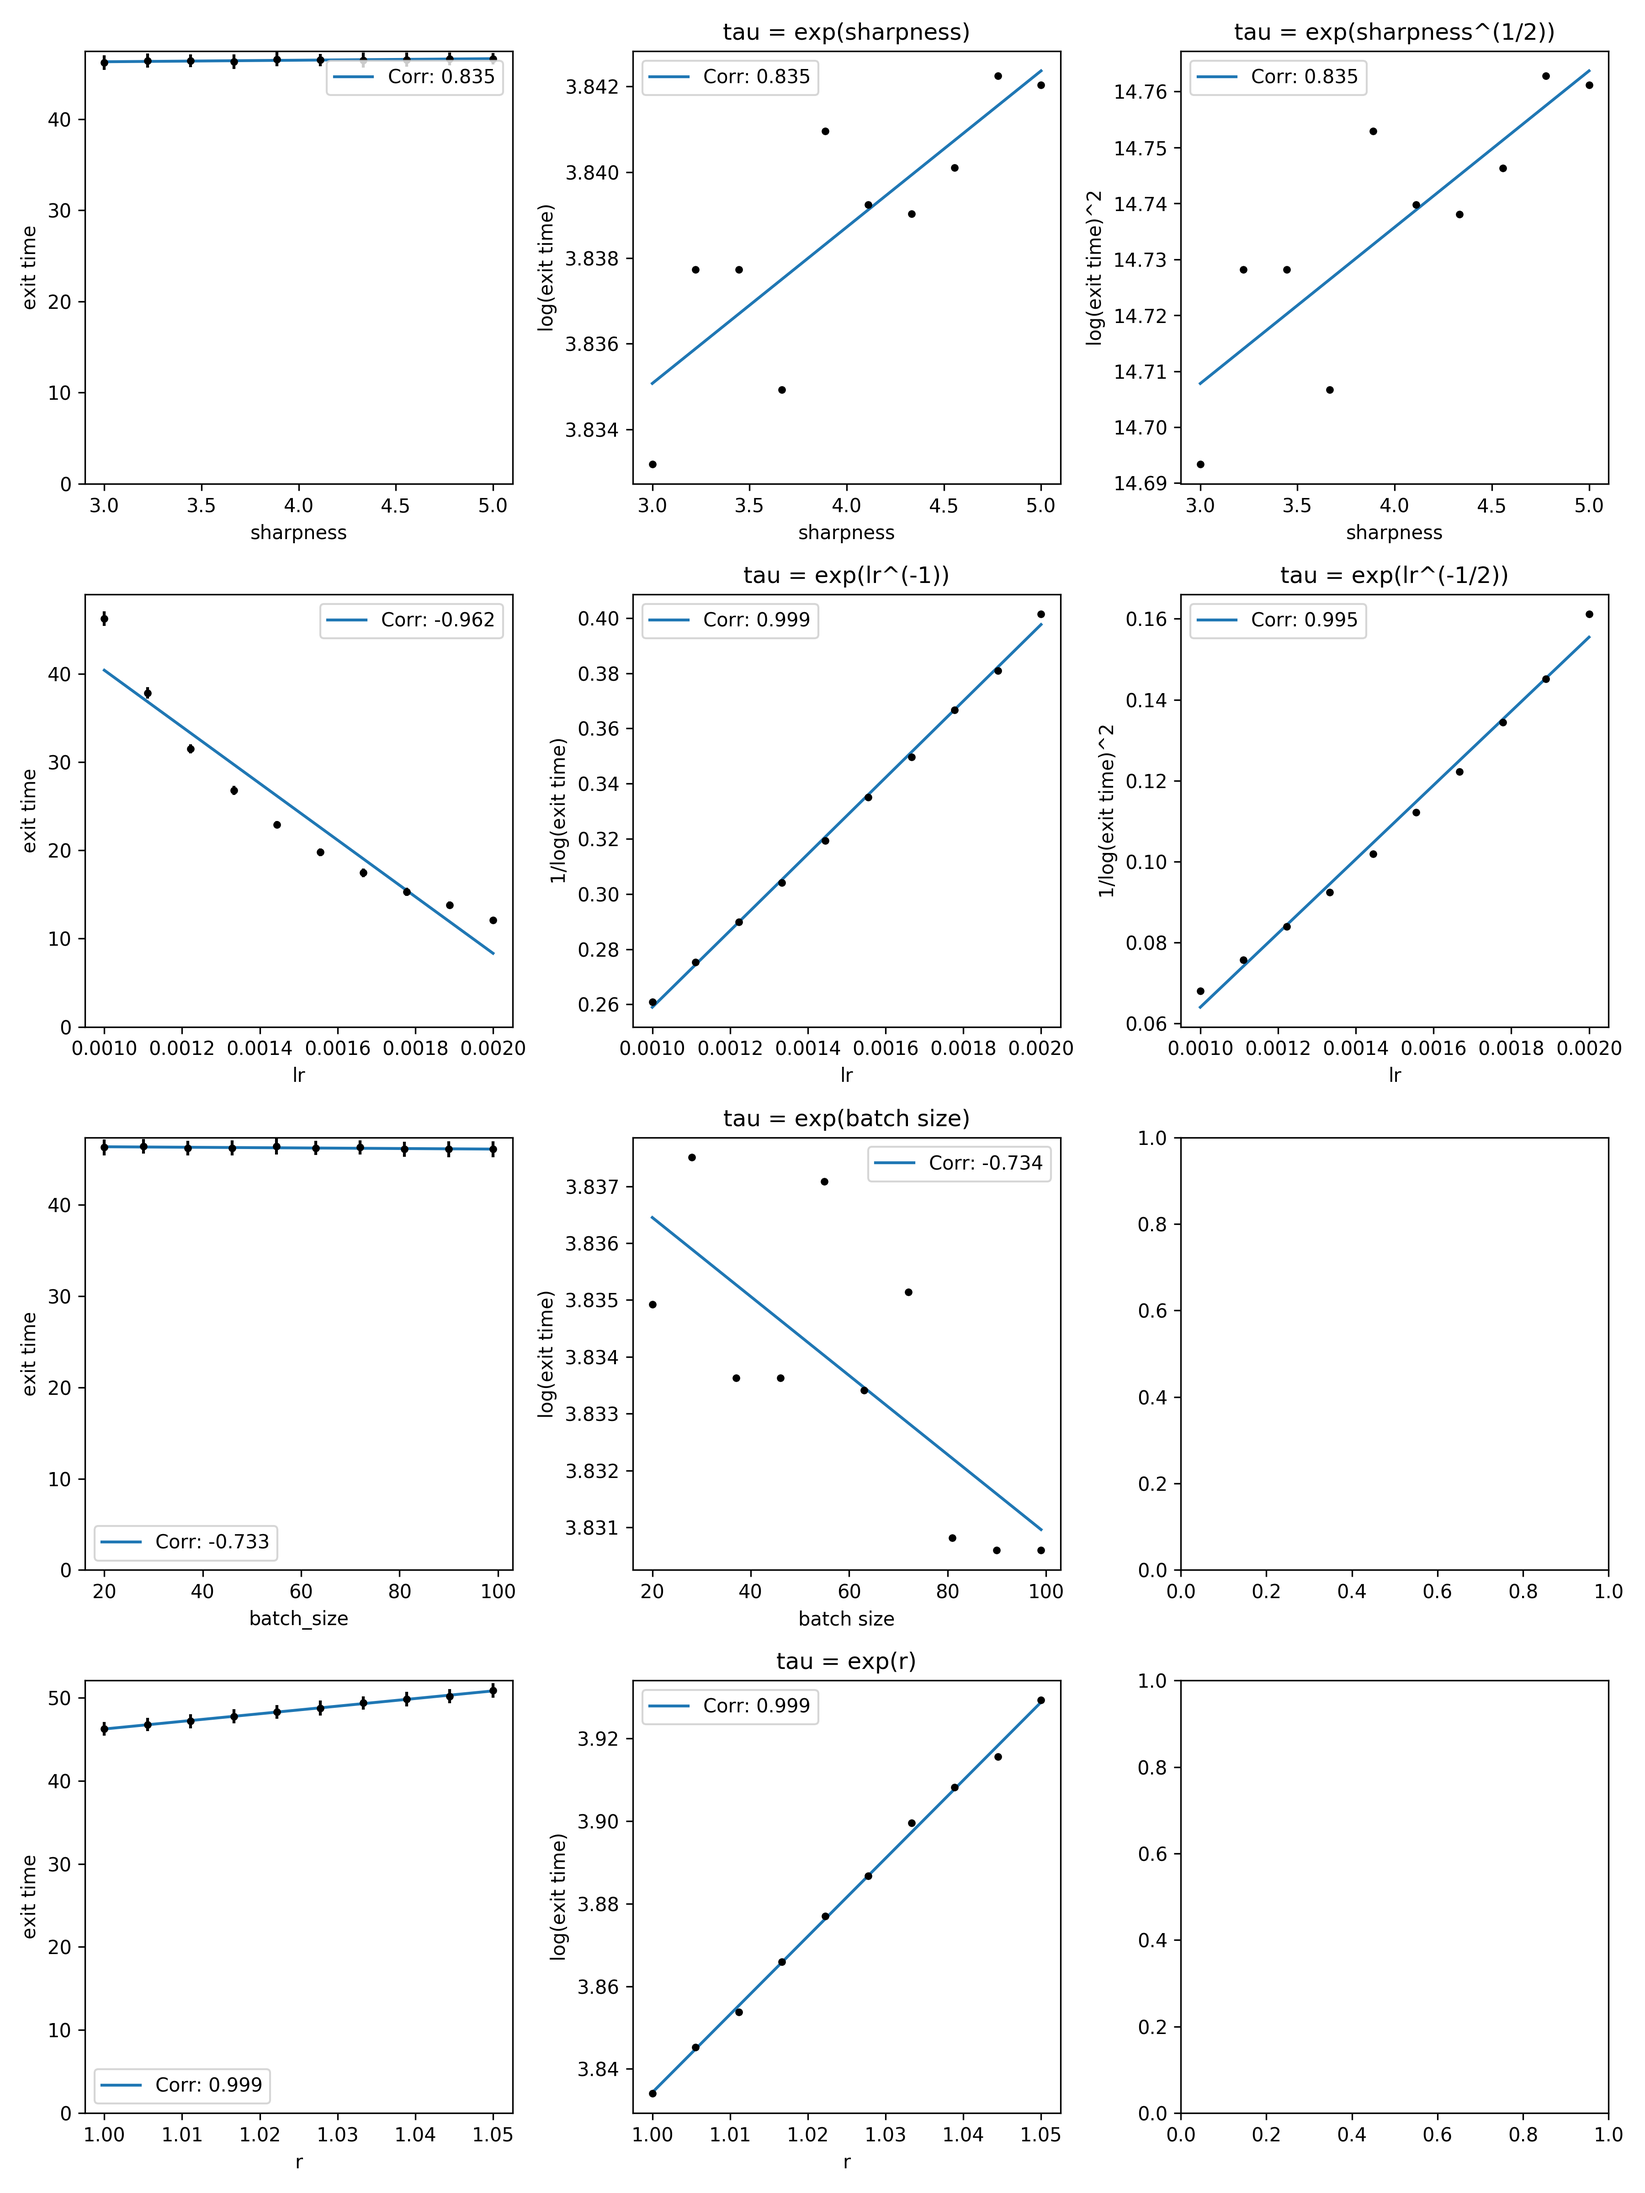
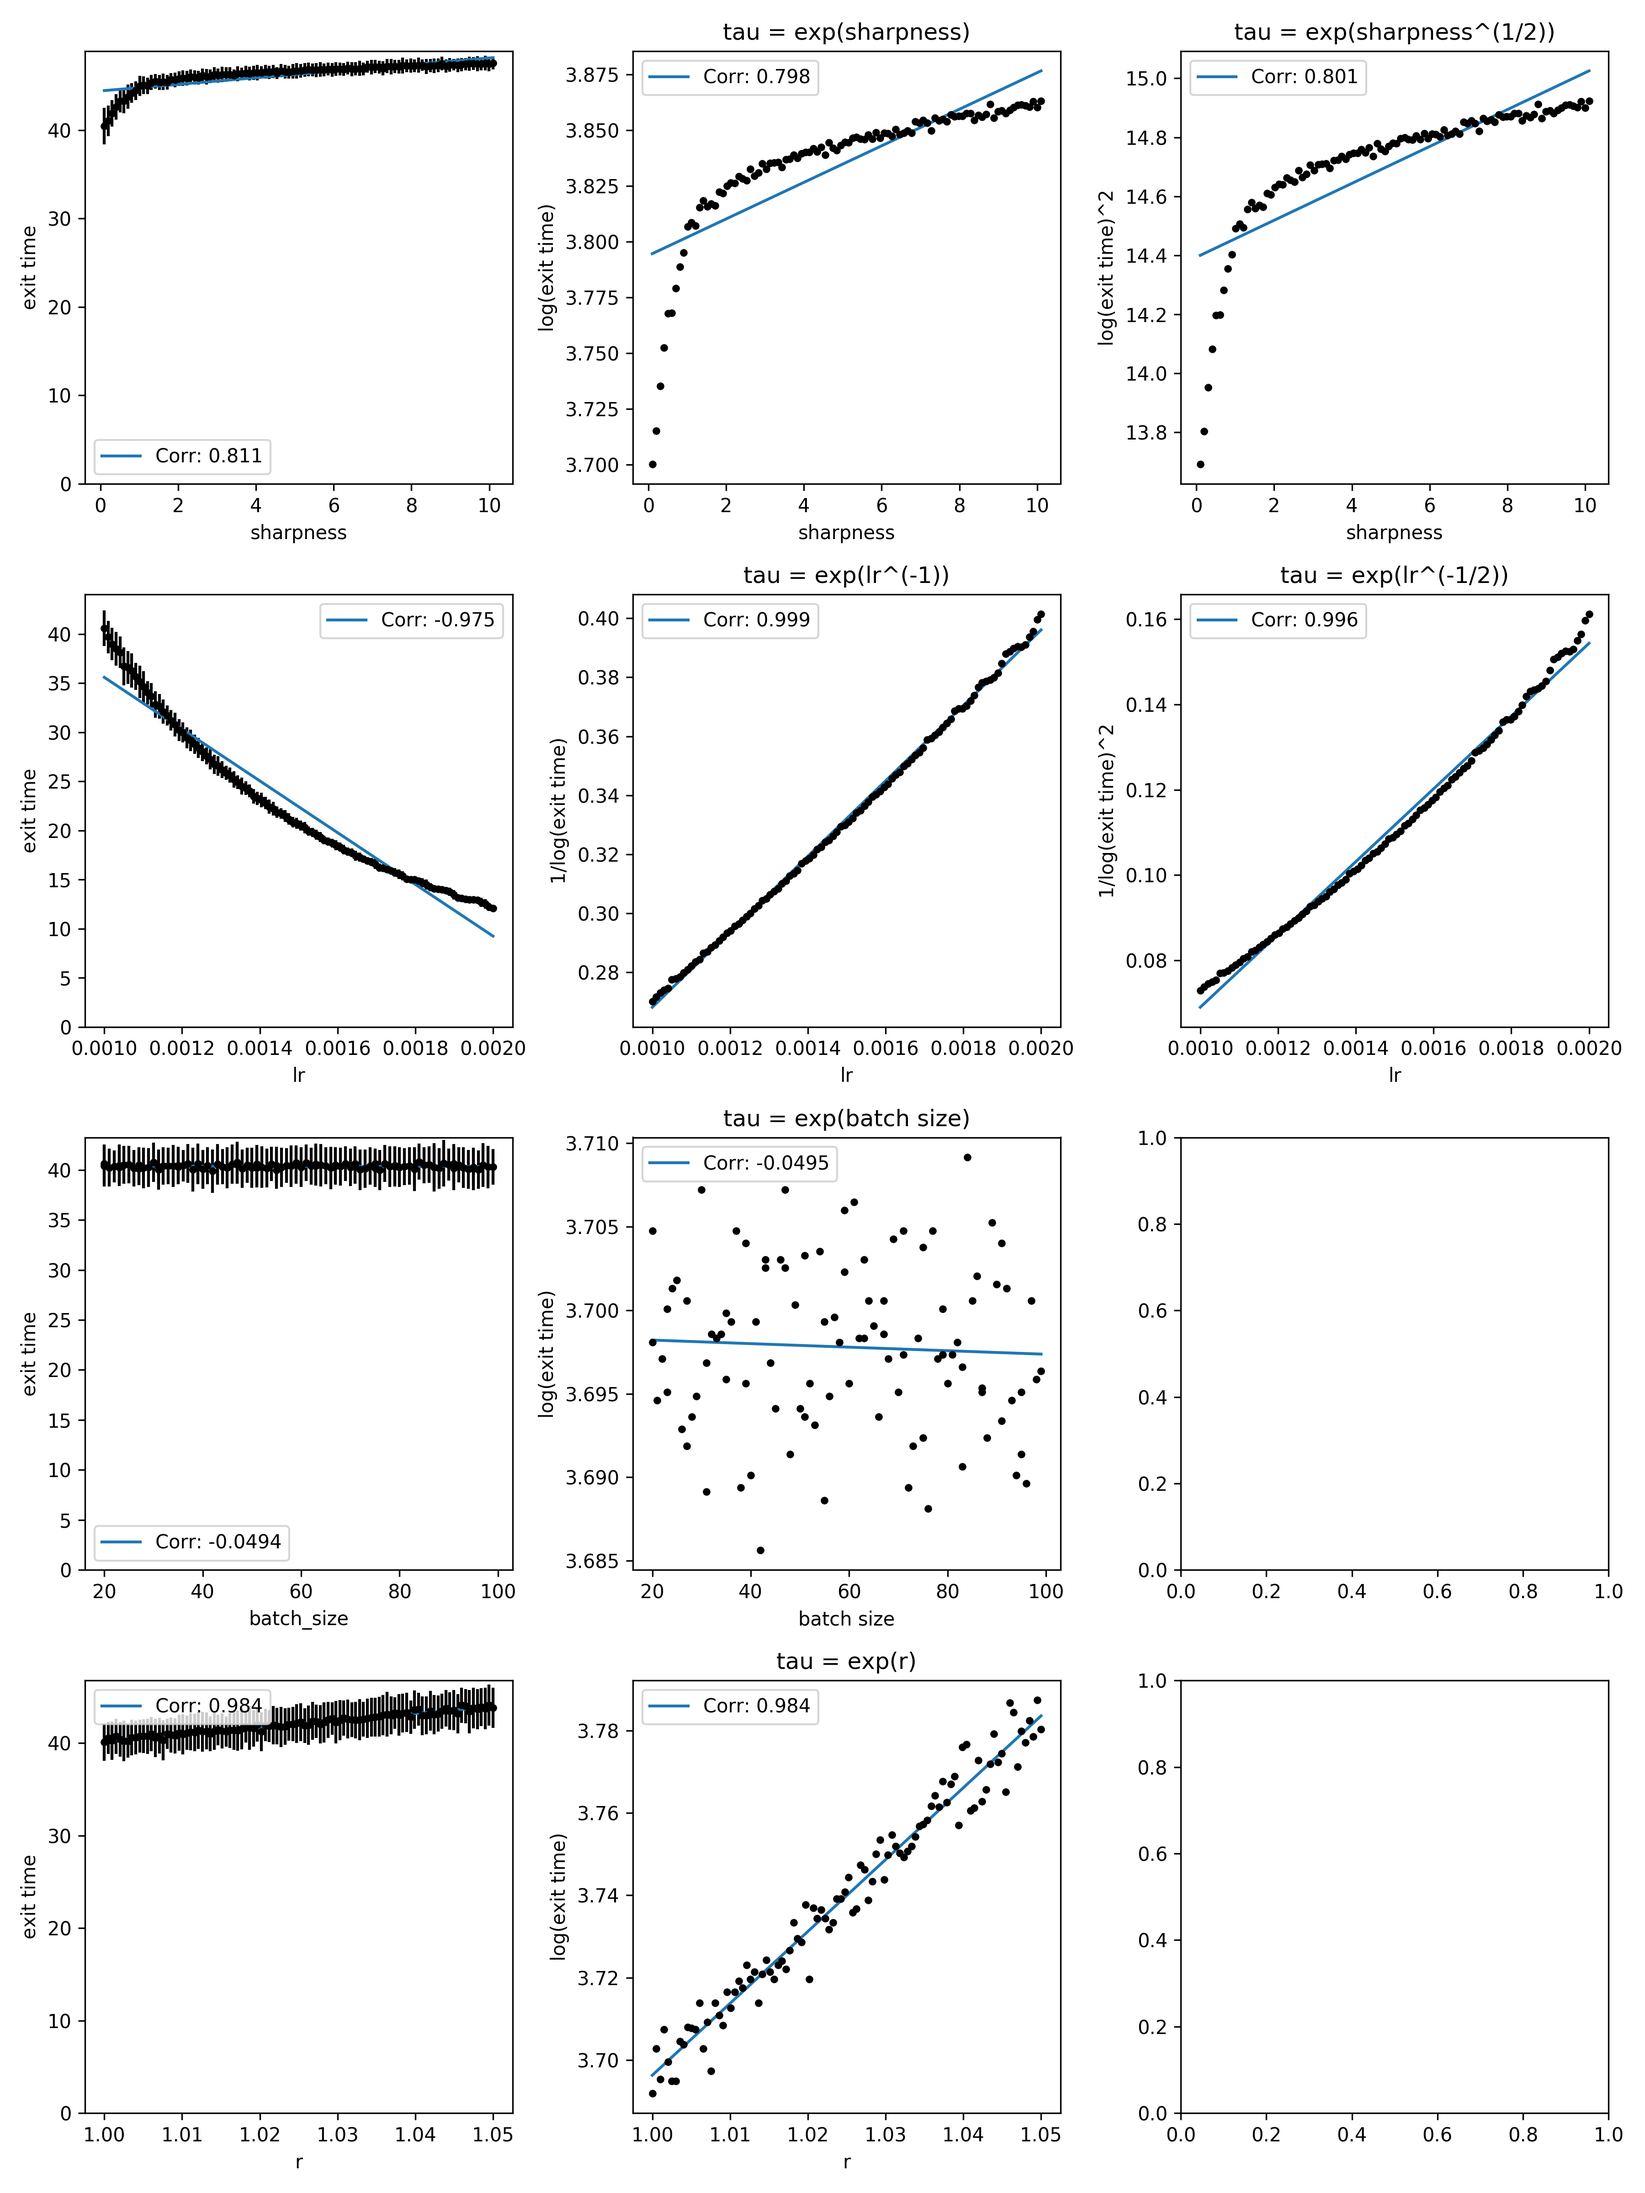
update

diff --git a/exit_time.py b/exit_time.py
@@ -320,8 +320,8 @@ def main():
     config['core'] = 0 
     config['seed'] = -1
     config['num_dim'] = 100
-    config['sharpness_min'] = 3
-    config['sharpness_interval'] = 2
+    config['sharpness_min'] = 0.1
+    config['sharpness_interval'] = 10 
     config['r_min'] = 1 
     config['r_interval'] = 0.05
     config['lr_min'] = 0.001
@@ -329,7 +329,7 @@ def main():
     config['batch_size_min'] = 20 
     config['batch_size_interval'] = 80 
     config['exit_trial_num'] = 100 
-    config['interval_sample'] = 10
+    config['interval_sample'] = 100
     config['optim'] = "SGLD"
     #
     config['data'] = 'AVILA2'
